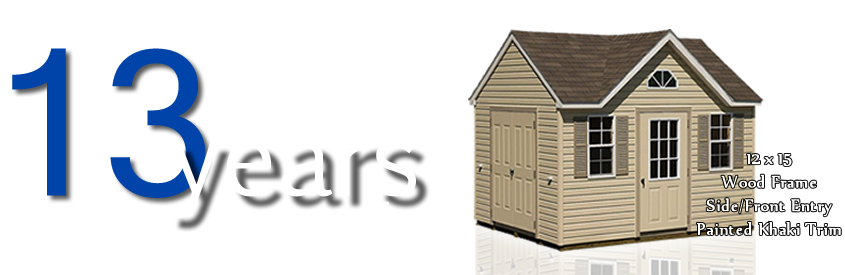
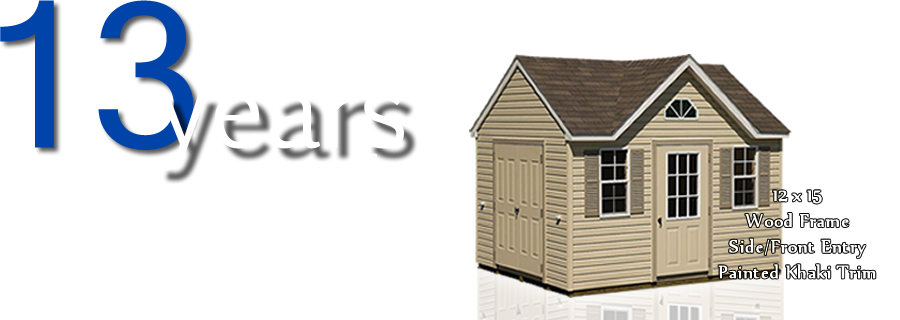
testingishness

diff --git a/public/css/winslows/layout.css b/public/css/winslows/layout.css
@@ -1,30 +1,39 @@
 body
 {
-        background-color: #0064F9;
+    background-image:url('/img/winslows/layout/background.png');
+    background-color:#cccccc;
 }
+/* unvisited link */
+a:link {color:#0044AA;text-decoration:none;} 
 
-a:link {color:#0044AA;text-decoration:none;} /* unvisited link */
-a:visited {color:#0044AA;} /* visited link */
-a:hover {color:#FF0000;}   /* mouse over link */
-a:active {color:#0044AA;}  /* selected link */
+/* visited link */
+a:visited {color:#0044AA;} 
+
+/* mouse over link */
+a:hover {color:#FF0000;}  
+
+/* selected link */
+a:active {color:#0044AA;}  
                         
 #header-logo
 {
         margin-left: 455px;
+        padding-top: 10px;
+        padding-bottom: 15px;
 }
 #winslows-layout-header-img
-    {
+{
         position: absolute;
         right: 15px;
         bottom: 0px;
 }
 
 #winslows-layout-header-container
-    {
+{
         margin-left: 464;
         width: 960;
         height:400px;
-        background-color: #D0D0D0;
+        background-image:url('/img/winslows/layout/banner_bg.png');
         position:relative;
 }
 #winslows-layout-main 
@@ -33,7 +42,7 @@ a:active {color:#0044AA;}  /* selected link */
         margin-left: auto;
         margin-right: auto;
         background-color: #FFF;
-        height: 100%;
+        height: 500px;
 }
 #body-links
 {
@@ -41,40 +50,51 @@ a:active {color:#0044AA;}  /* selected link */
         padding-right: 30px;
         padding-top: 0px;
 }
- #cssmenu {
+#search-bar
+{
+        margin-left: 750px;
+        padding-top: 0px;
+}
+ #cssmenu 
+ {
         float: left;
 	width:100%;
-/*This background color feature is for full tab background color. Changing this changes the state of the static color of the bar */
-	background:#666;
+        /*This background color feature is for full tab 
+        background color.using background image to match. */
+	background-image:url('/img/winslows/layout/banner_bg.png');
 	font-size:93%;
 	line-height:normal;
 	border-bottom:1px solid #666;
-	}
-#cssmenu ul {
+}
+#cssmenu ul 
+{
 	margin:0;
 	padding:10px 10px 0 50px;
 	list-style:none;
-	}
-#cssmenu li {
+}
+#cssmenu li 
+{
 	display:inline;
 	margin:0;
 	padding:0;
-	}
-#cssmenu a {
+}
+#cssmenu a 
+{
 	float:left;
         background:url('/img/winslows/layout/tableftF.gif') no-repeat left top;
 	margin:0;
 	padding:0 0 0 4px;
 	text-decoration:none;
-	}
-#cssmenu a span {
+}
+#cssmenu a span 
+{
 	float:left;
 	display:block;
 	background:url('/img/winslows/layout/tabrightF.gif') no-repeat right top;
 	padding:5px 15px 4px 6px;
  /*This color feature handles the initial text color */
 	color:#666;
-	}
+}
 	
 /* Commented Backslash Hack hides rule from IE5-Mac */
 #cssmenu a span {float:none;}
